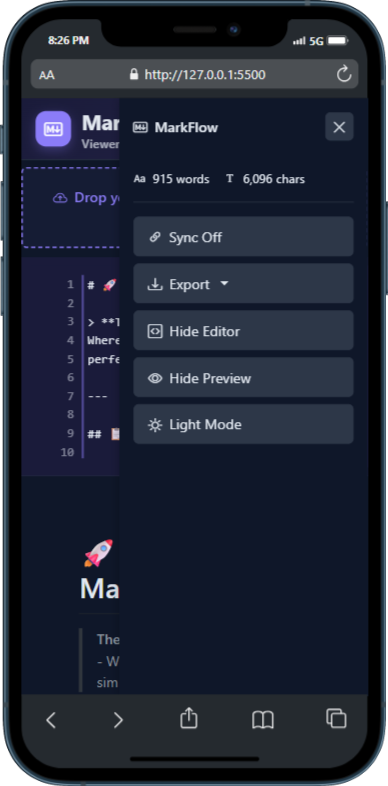
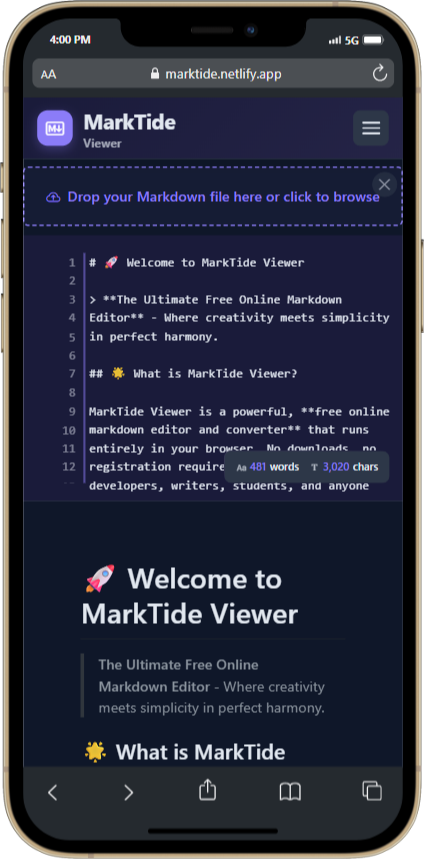
fix(theme): apply system theme on first visit

diff --git a/assets/js/theme-manager.js b/assets/js/theme-manager.js
@@ -11,9 +11,14 @@ class ThemeManager {
     this.themeToggle = document.getElementById("theme-toggle");
     this.mobileThemeToggle = document.getElementById("mobile-theme-toggle");
     
-    // Load saved theme or default to dark
-    const savedTheme = localStorage.getItem('marktide-theme');
-    this.currentTheme = savedTheme || 'dark';
+    // Load saved theme or detect system theme
+    let savedTheme = localStorage.getItem('marktide-theme');
+    if (!savedTheme) {
+      // Detect system theme
+      const prefersDark = window.matchMedia && window.matchMedia('(prefers-color-scheme: dark)').matches;
+      savedTheme = prefersDark ? 'dark' : 'light';
+    }
+    this.currentTheme = savedTheme;
     
     // Apply initial theme
     this.applyTheme(this.currentTheme);
@@ -26,6 +31,8 @@ class ThemeManager {
     if (this.mobileThemeToggle) {
       this.mobileThemeToggle.addEventListener("click", () => this.toggleTheme());
     }
+    // Update toggle button label/icon on init
+    this.updateThemeButtons();
   }
 
   applyTheme(theme) {